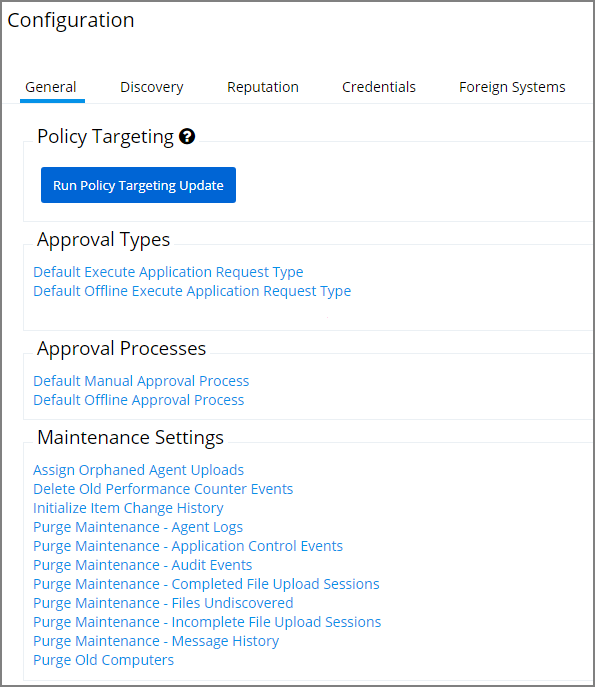
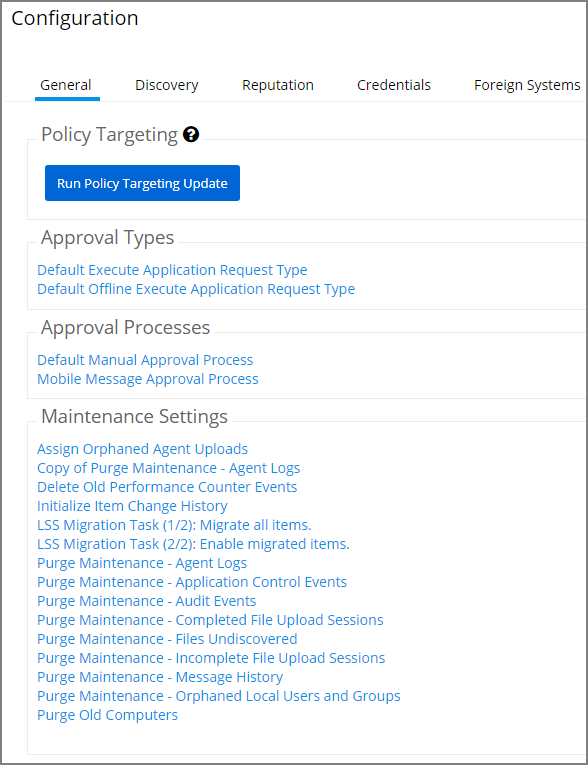
#161181: Updates and cross-references

diff --git a/tasks/maintenance.md b/tasks/maintenance.md
@@ -43,9 +43,15 @@ This task will delete internal performance counter events last updated before th
 
 __Parameters__: Can be set to Seconds, Minutes, Hours, Days, and Weeks. The default is 1 Day.
 
+This maintenance task should be used if [Save Performance Counters](../ui/config/advanced/adv-pm-general.md#save_performance_counters) is enabled in the general section of the advanced configuration settings.
+
 ### Initialize Item Change History
 
-This task is run after installs to ensure items with change tracking enabled have initial history entries.
+This task is run after installs to ensure items with change tracking enabled have initial history entries. This is an automated task to populate initial states of items across updates.
+
+### LSS Migration Tasks
+
+For information on the LSS Migration tasks refer to [Migrate Local Security Policies](../local-security/migrate-lss-policies.md).
 
 ### Purge Agent and Gauge Data for Deleted Computers
 
@@ -67,9 +73,12 @@ __Parameters__: Can be set to Seconds, Minutes, Hours, Days, and Weeks. The defa
 
 ### Purge Maintenance - Application Control Events
 
-Purges the selected Application Control Event types from the database based upon the time range specified. 
+Purges the selected Application Control Event types from the database either
 
-__Parameters__: Event Types to Purge (Application Action Events, Application Justification Events, Application Metering Events, Application Verifier Events).
+* manually based on a specified range of time, or
+* automatically after reaching a set threshold. Refer to [Maximum Application Event Count](../ui/config/advanced/adv-pm-general.md#maximum_application_event_count) time range specified.
+
+__Parameters__: Event Types to Purge (Application Action Events, Application Justification Events, Application Metering Events, Application Verifier Events). All of these Application Control Events are populated in the various Application Action reports.
 
 __Notes__: Only Purge Events that belong to specific policies
 
@@ -83,7 +92,7 @@ This task will remove audit event records older than the specified time period.
 
 __Parameters__: Purge events older than [default setting = 30 day(s)]
 
-__Notes__: The Audit events mainly pertain to a feature that is only accessible in the Silverlight console. There are a few Security Audit events which may be gathered by Privilege Manager. However, in most Privilege Manager instances, this task should not need to be scheduled.
+__Notes__: The Audit events mainly pertain to and are used in Change History tracking. This task should not need to be scheduled.
 
 ### Purge Maintenance - Completed File Upload Sessions
 
@@ -91,7 +100,7 @@ This task will remove completed file upload sessions older than the specified ti
 
 __Parameters__: Purge completed sessions older than [default setting = 1 day(s)]
 
-__Notes__: For versions 10.5 or later, the need to run this task should be significantly reduced since they are now cleaned up as file uploads complete.
+__Notes__: For versions 10.5 and later, the need to run this task should be significantly reduced since they are now cleaned up as file uploads complete.
 
 ### Purge Maintenance - Files Undiscovered
 
@@ -99,7 +108,7 @@ Run this task to delete file resources which have not been discovered by File In
 
 __Parameters__: Delete Files that have been undiscoverable for longer than [default setting = 1 week(s)]
 
-__Notes__: This task clear up files with the name "New Loaded Resource" that are older than X days. This can be a helpful task to schedule to remove undiscoverable files from the Event Discovery results (for example, temp files that an installer creates and then deletes).
+__Notes__: This task clears up files with the name "New Loaded Resource" that are older than X days. This can be a helpful task to schedule to remove undiscoverable files from the Event Discovery results (for example, temp files that an installer creates and then deletes).
 
 ### Purge Maintenance - Incomplete File Upload Sessions
 
@@ -107,7 +116,7 @@ This task will remove incomplete file upload sessions older than the specified t
 
 __Parameters__: Purge incomplete sessions older than [default setting = 2 day(s)]
 
-__Notes__: For versions 10.5 or later, the need to run this task should be significantly reduced since they are now cleaned up as file uploads complete.
+__Notes__: For versions 10.5 and later, the need to run this task should be significantly reduced since they are now cleaned up as file uploads complete.
 
 ### Purge Maintenance - Message History
 
@@ -117,10 +126,10 @@ __Parameters__: Delete Message History older than [default setting = 30 day(s)]
 
 __Notes__: This task clears the `[Ams.Resource].[MessageHistory]` table. Use this task to purge that table, if it is excessively large.
 
+### Purge Maintenance - Orphaned Local Users and Groups
+
+This task will delete local users and groups that reference a computer as their parent domain (which will block deletes), but are not part of that computers users and groups.
+
 ### Purge Old Computers
 
-Remove old computers and gauge data for old computers.
-
-### Purge Old Unmanaged AD Computers
-
-This task will delete unmanaged computers imported from Active Directory that have not been updated in X days.
+Remove old computers and gauge data for old computers. Remove any agents that have not communicated with the server in a set number of days (default 90), resulting in a critical Agent state.

diff --git a/ui/config/advanced/adv-pm-general.md b/ui/config/advanced/adv-pm-general.md
@@ -13,7 +13,7 @@ This is a checkbox that when selected allows agents to communicate with the serv
 
 ## Maximum Application Event Count
 
-This settings specifies the Maximum number of application action events that will be kept in the database. The default setting is 1,000,000.
+This settings specifies the Maximum number of application action events that will be kept in the database. The default setting is 1,000,000. Also refer to [Purge Maintenance - Application Control Events](../../../tasks/maintenance.md#purge_maintenance___application_control_events).
 
 ## Command Timeout
 
@@ -37,7 +37,7 @@ Enabling this setting prevents older agents (prior to 10.5) from registering, al
 
 ## Save Performance Counters
 
-If this setting is selected, the performance counter data will be recorded in the database.
+If this setting is selected, the performance counter data will be recorded in the database. Also refer to [Delete Old Performance Counter Events](../../../tasks/maintenance.md#delete_old_performance_counter_events).
 
 ## Session Timeout
 
@@ -53,7 +53,7 @@ One minute before the timeout, the color changes to red.
 
 ![Red Session Warning at 1 Minute mark](images/pm/session-timeout-2.png)
 
-Once the session times out, the active user is logged out and retured to the Privilege Manager Server Setup Home page.
+Once the session times out, the active user is logged out and returned to the Privilege Manager Server Setup Home page.
 
 ![Privilege Manager Server Setup Home page](images/pm/session-timeout-3.png)
 

diff --git a/ui/config/general/index.md b/ui/config/general/index.md
@@ -23,6 +23,7 @@ These are read-only items and by default Administrators are always allowed to ap
 
 * Default Manual Approval Process
 * Default Offline Approval Process
+* Mobile Message Approval Process
 
 ## [Maintenance Settings](../../../tasks/maintenance.md)
 
